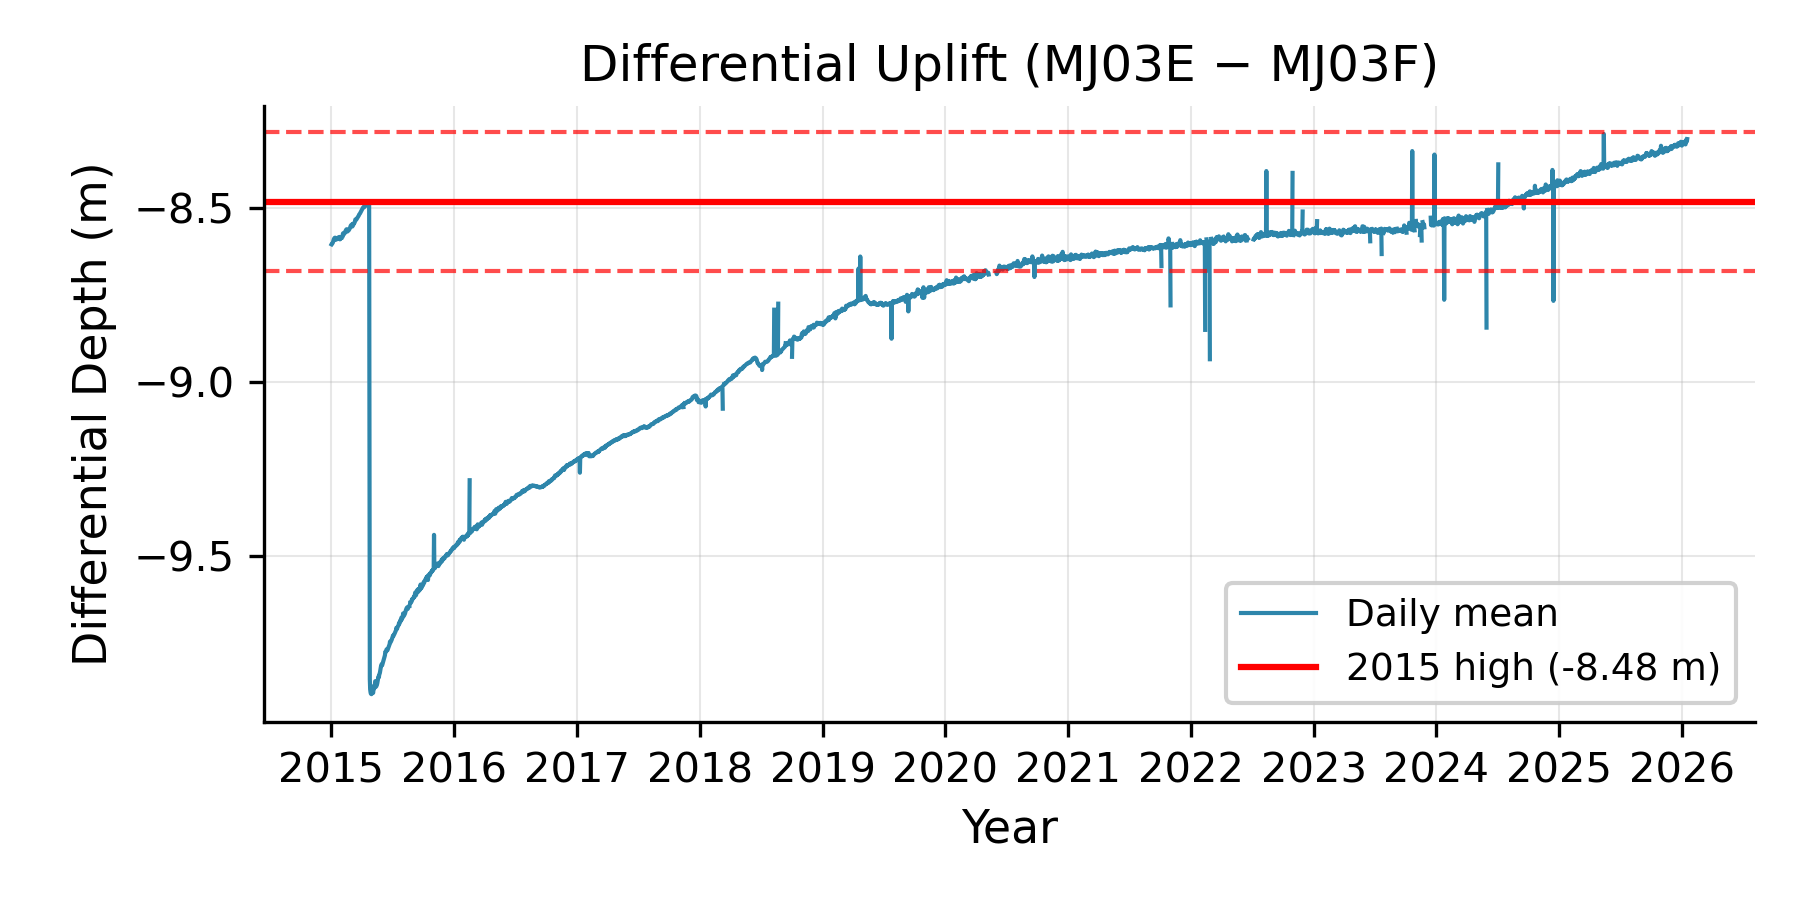
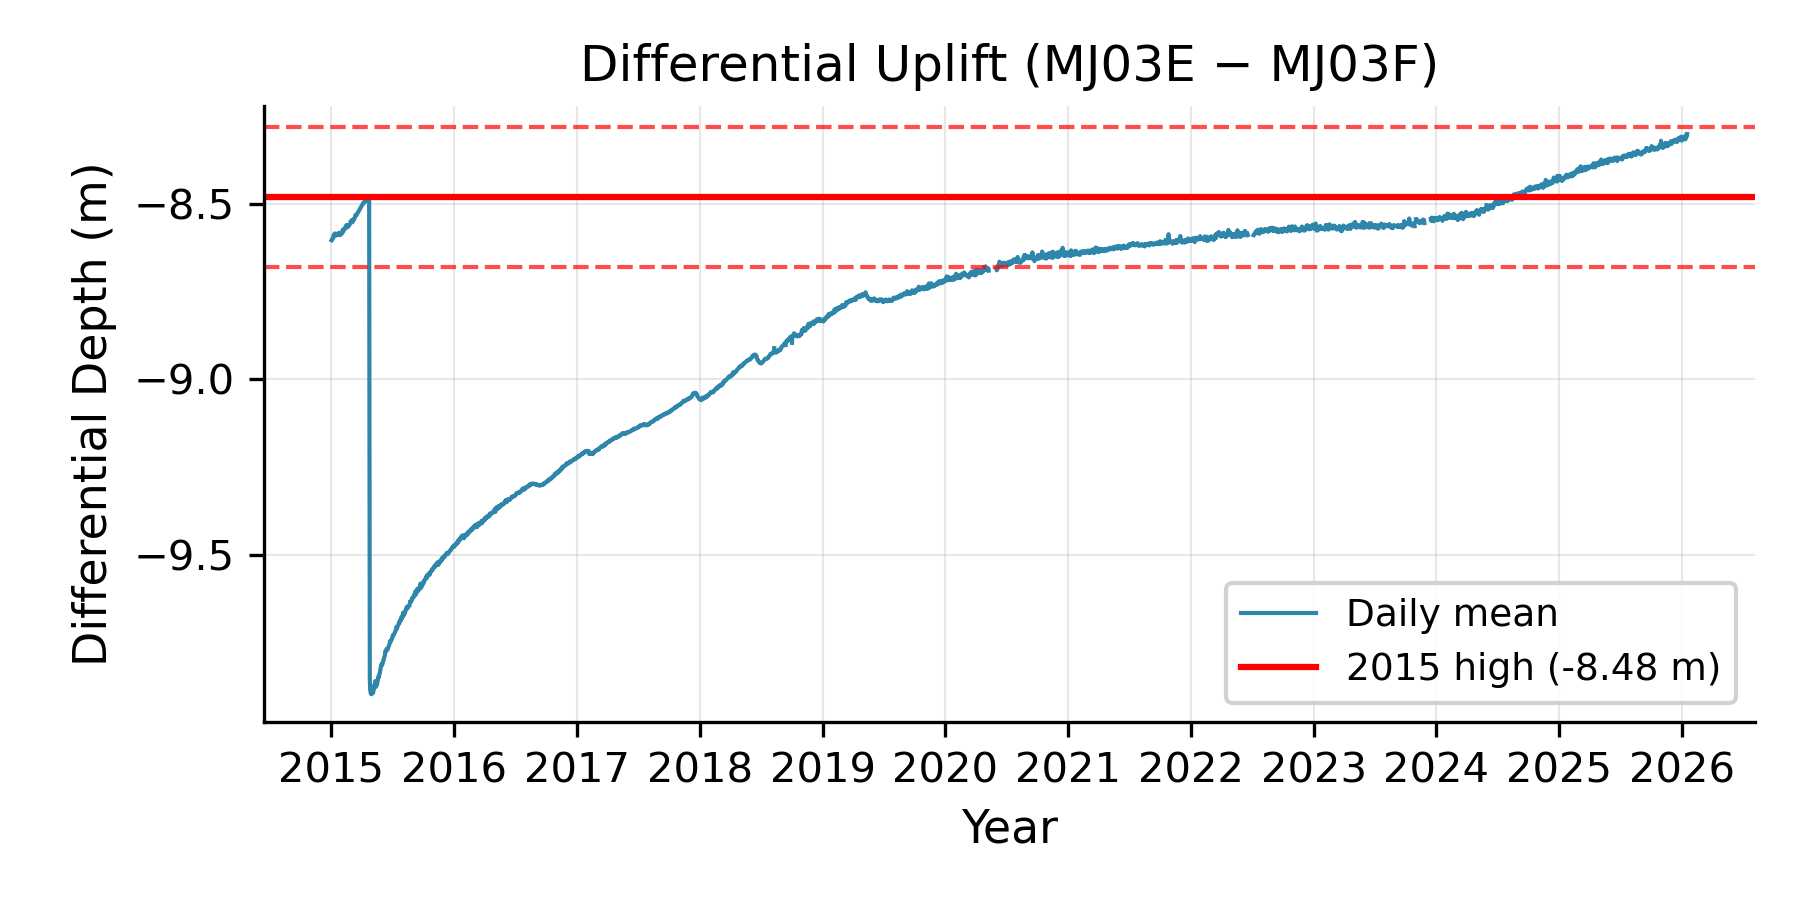
Add MAD-based spike removal for quality control
Implement robust spike detection using Median Absolute Deviation (MAD)
instead of standard deviation. MAD is more robust to outliers because:

1. Standard deviation is sensitive to extreme values - a single large
   spike inflates the std, making it harder to detect other spikes
2. MAD uses the median of absolute deviations from the median, so
   outliers have minimal influence on the threshold calculation

Algorithm details:
- Calculate rolling median over 24-hour centered window
- Compute absolute deviation from rolling median for each point
- Calculate rolling MAD (median of absolute deviations)
- Scale MAD by 1.4826 to be comparable to std (for normal distributions,
  std ≈ 1.4826 × MAD, derived from the relationship between median and
  mean for Gaussian distributions)
- Flag points where deviation > threshold × scaled_MAD

Spike removal is applied in two places:
1. Individual station data (threshold=5.0) - catches sensor glitches
2. Differential signal (threshold=3.5) - catches glitches that appear
   when one sensor spikes but not the other

The more aggressive threshold (3.5) on the differential signal removes
~1% of hourly data points (917 spikes), producing a clean volcanic
inflation signal while preserving real features like the April 2015
eruption deflation event.

diff --git a/analysis.py b/analysis.py
@@ -32,6 +32,42 @@ def pressure_to_depth(pressure_psia):
     return (pressure_psia - 14.7) * 0.670
 
 
+def remove_spikes(series: pd.Series, window_hours: int = 24, threshold: float = 5.0) -> pd.Series:
+    """Remove spikes using rolling median and MAD (median absolute deviation).
+
+    MAD is more robust to outliers than standard deviation.
+
+    Args:
+        series: Hourly depth time series
+        window_hours: Rolling window size in hours
+        threshold: Number of MADs for spike threshold
+
+    Returns:
+        Series with spikes replaced by NaN
+    """
+    cleaned = series.copy()
+
+    # Use median (robust to outliers)
+    rolling_median = cleaned.rolling(window=window_hours, center=True, min_periods=1).median()
+
+    # Calculate MAD (median absolute deviation) - more robust than std
+    deviation = (cleaned - rolling_median).abs()
+    rolling_mad = deviation.rolling(window=window_hours, center=True, min_periods=1).median()
+
+    # Scale MAD to be comparable to std (for normal distribution, std ≈ 1.4826 * MAD)
+    scaled_mad = 1.4826 * rolling_mad
+
+    # Flag values more than threshold MADs from rolling median
+    is_spike = deviation > (threshold * scaled_mad)
+
+    n_spikes = is_spike.sum()
+    if n_spikes > 0:
+        print(f"    Removed {n_spikes} spikes ({100*n_spikes/len(series):.2f}%)")
+        cleaned[is_spike] = pd.NA
+
+    return cleaned
+
+
 def filter_files_by_time_range(nc_files: list[Path]) -> list[Path]:
     """Filter NetCDF files to those covering the target time range (15s data only)."""
     filtered = []
@@ -92,6 +128,10 @@ def load_station(data_path: Path, station_name: str) -> pd.Series:
     result = result[~result.index.duplicated(keep="first")]
 
     print(f"{station_name}: {len(result)} hourly observations")
+
+    # Remove spikes using 24-hour rolling window, MAD threshold
+    result = remove_spikes(result, window_hours=24, threshold=5.0)
+
     return result
 
 
@@ -122,6 +162,10 @@ def plot_differential(depth_e: pd.Series, depth_f: pd.Series, filename: str):
     # Calculate differential depth: MJ03E - MJ03F (per constitution)
     # Positive values = MJ03E deeper than MJ03F (Central Caldera uplifted)
     uplift = combined["e"] - combined["f"]
+
+    # Remove spikes from the differential signal (before daily averaging)
+    print("  Filtering spikes from differential signal...")
+    uplift = remove_spikes(uplift, window_hours=24, threshold=3.5)
 
     # Resample to daily to remove tidal noise
     uplift_daily = uplift.resample("1D").mean()
